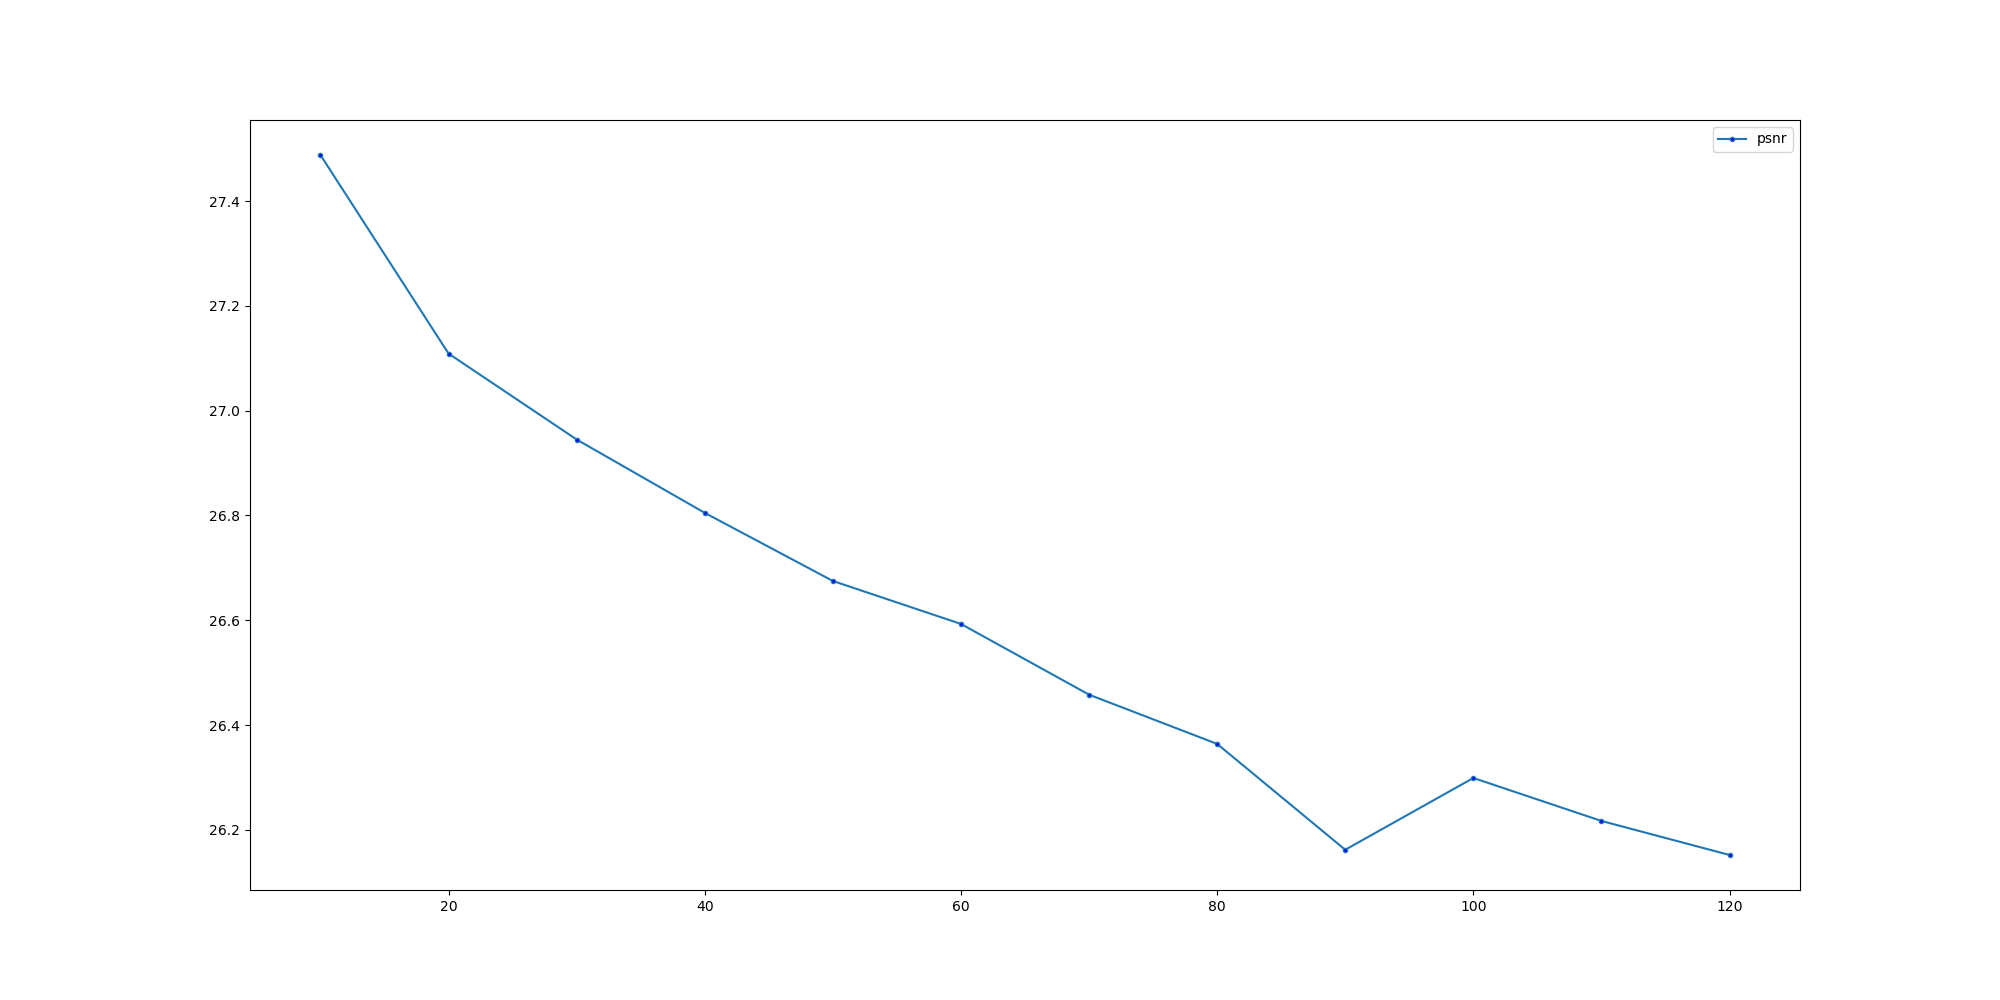
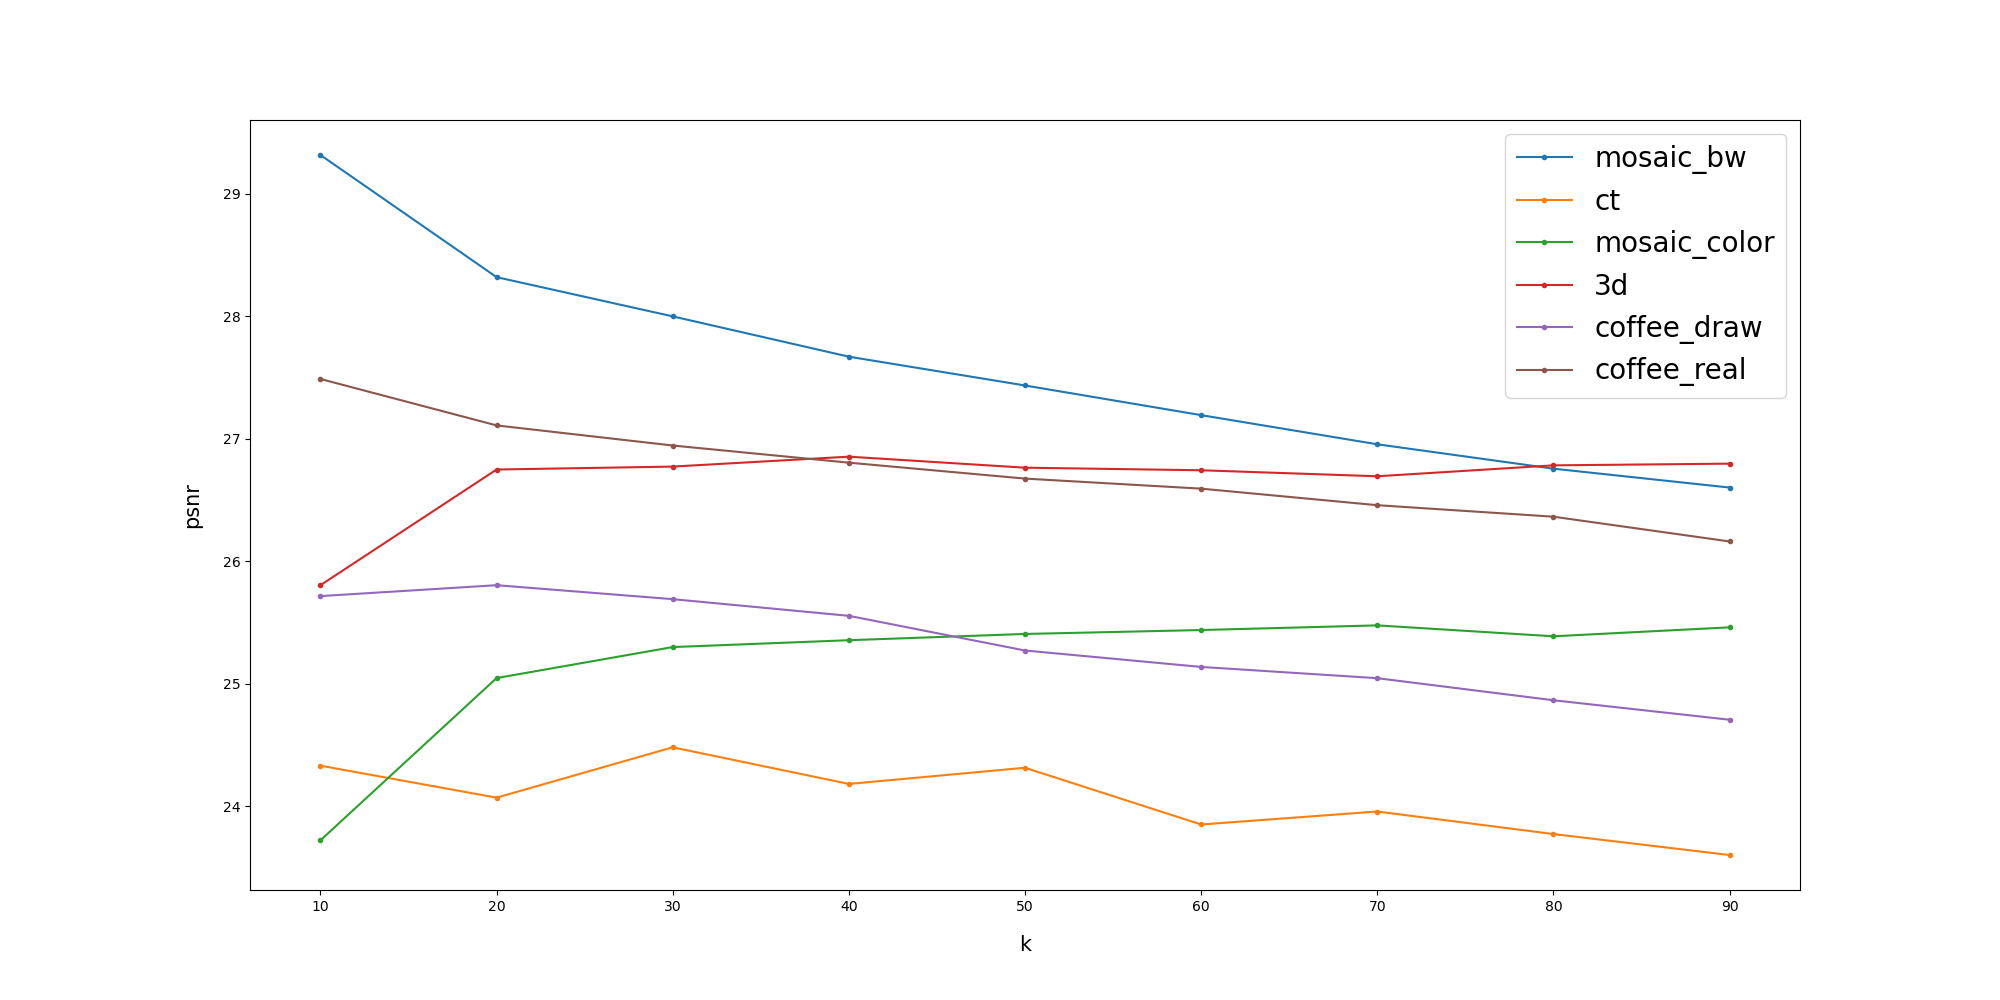
plot to compare psnr

diff --git a/3_psnr_table.py b/3_psnr_table.py
@@ -15,7 +15,6 @@ denoised_dir = os.path.join(image_dir, 'denoised')
 table_dir = os.path.join(dir, 'table')
 
 def get_psnr(img_path, k): 
-    # coffee.png
     img_name = img_path.split('.')[0]
     true = io.imread(os.path.join(initial_dir, img_path))
     reduced = io.imread(os.path.join(denoised_dir, img_name, f'{k}.png'))
@@ -28,12 +27,14 @@ def get_psnr_table(img_path):
     k_list = []
     psnr_list = []
     for fname in os.listdir(os.path.join(denoised_dir, img_name)):
-        k = fname.split('.')[0]
+        k = int(fname.split('.')[0])
         k_list.append(k)
         psnr = get_psnr(img_path, k)
         psnr_list.append(psnr)
     data = {'k': k_list, 'psnr': psnr_list}
     k_psnr_change = pd.DataFrame(data)
+    k_psnr_change = k_psnr_change.sort_values(by='k')
+    k_psnr_change.reset_index(drop=True, inplace=True)
     return k_psnr_change
 
 def write_psnr_table(img_path): 
@@ -48,20 +49,5 @@ def psnr_table(path=initial_dir, update_all=True):
     else: 
         write_psnr_table(path)
 
-psnr_table(path=initial_dir, update_all=True)
-    
-
-# for fname in os.listdir(initial_dir):     
-
-
-
-#compare images measuring by psnr: greater results means better quality
-
-
-# print('noise: %.3f' % (peak_signal_noise_ratio(true, noise)))
-# print('reduced: %.3f' % (peak_signal_noise_ratio(true, reduced)))
-
-
-
-# draw_change(k_change)
-# plt.savefig("k_change.png")
+# psnr_table(path=initial_dir, update_all=True)
+psnr_table('mosaic_color.png', update_all=False)

diff --git a/4_draw_plot.py b/4_draw_plot.py
@@ -1,28 +1,24 @@
 import os
-import numpy as np
 import pandas as pd
 import matplotlib.pyplot as plt
-from skimage import data, io, util
-from skimage.metrics import peak_signal_noise_ratio
-from sklearn.feature_extraction import image
-import ksvd
 
 dir = '/Users/qingyi/Documents/uchicago/courses/machine_learning/project/ksvd_algorithm'
-# image_dir = os.path.join(dir, 'image')
-# initial_dir = os.path.join(image_dir, 'initial')
-# noised_dir = os.path.join(image_dir, 'noised')
-# denoised_dir = os.path.join(image_dir, 'denoised')
 table_dir = os.path.join(dir, 'table')
 
-def draw_change(df): 
-    f = plt.figure()
-    f.set_figwidth(20)
-    f.set_figheight(10)
-    plt.plot( 'k', 'psnr', data=df, marker='.', markerfacecolor='blue')
-    plt.legend()
+f = plt.figure()
+f.set_figwidth(20)
+f.set_figheight(10)
+plt.xlabel('k', size=15, labelpad=15)
+plt.ylabel('psnr', size=15, labelpad=15)
+
+def draw_change(df, img_name): 
+    # plt.plot( 'k', 'psnr', data=df, marker='.', markerfacecolor='blue')
+    plt.plot( 'k', 'psnr', data=df, marker='.', label=img_name)
+    plt.legend(prop={'size': 20})
+
 
 for fname in os.listdir(table_dir): 
     img_name = fname.split('.')[0]
     df = pd.read_csv(os.path.join(table_dir, fname))
-    draw_change(df)
+    draw_change(df, img_name)
     plt.savefig(os.path.join(dir, 'output.png'))

diff --git a/1_add_noise.py b/1_add_noise.py
@@ -3,13 +3,15 @@
 import os
 from skimage import io, util
 
-path = '/Users/qingyi/Documents/uchicago/courses/machine_learning/project/ksvd_algorithm/image'
-initial_path = os.path.join(path, 'initial')
-noised_path = os.path.join(path, 'noised')
-for fname in os.listdir(initial_path): 
-    img_path = os.path.join(initial_path, fname)
+dir = '/Users/qingyi/Documents/uchicago/courses/machine_learning/project/ksvd_algorithm'
+image_dir = os.path.join(dir, 'image')
+initial_dir = os.path.join(image_dir, 'initial')
+noised_dir = os.path.join(image_dir, 'noised')
+
+for fname in os.listdir(initial_dir): 
+    img_path = os.path.join(initial_dir, fname)
     # img_name = fname.split('.')[0]
     img_data = util.img_as_float(io.imread(img_path))
     img_with_noise = util.random_noise(img_data, seed=1)
-    output_path = os.path.join(noised_path, fname)
+    output_path = os.path.join(noised_dir, fname)
     io.imsave(output_path, img_with_noise)

diff --git a/2_reduce_noise.py b/2_reduce_noise.py
@@ -43,18 +43,20 @@ def create_dir(img_path):
         os.makedirs(dir)
     return dir
 
-def save_denoiced_img(img_path, start=10, end=20, step=10): 
+def save_denoiced_img(img_path, start=40, end=130, step=10): # change k
     for k in range(start, end, step): 
+        print(k)
         noised_img_path = os.path.join(noised_dir, img_path)
         dir = create_dir(img_path)
         output_path = os.path.join(dir, f'{k}.png')
         io.imsave(output_path, denoise(noised_img_path, k))
 
-def reduce_noise(path=noised_dir, update_all=True):  
+def reduce_noise(update_all=False, path=noised_dir):  
     if update_all: 
         for fname in os.listdir(path): 
             save_denoiced_img(fname)
     else: 
         save_denoiced_img(path)
-    
-reduce_noise(path=noised_dir, update_all=True)
+
+# reduce_noise(update_all=True)
+reduce_noise(path='coffee_draw.png')
